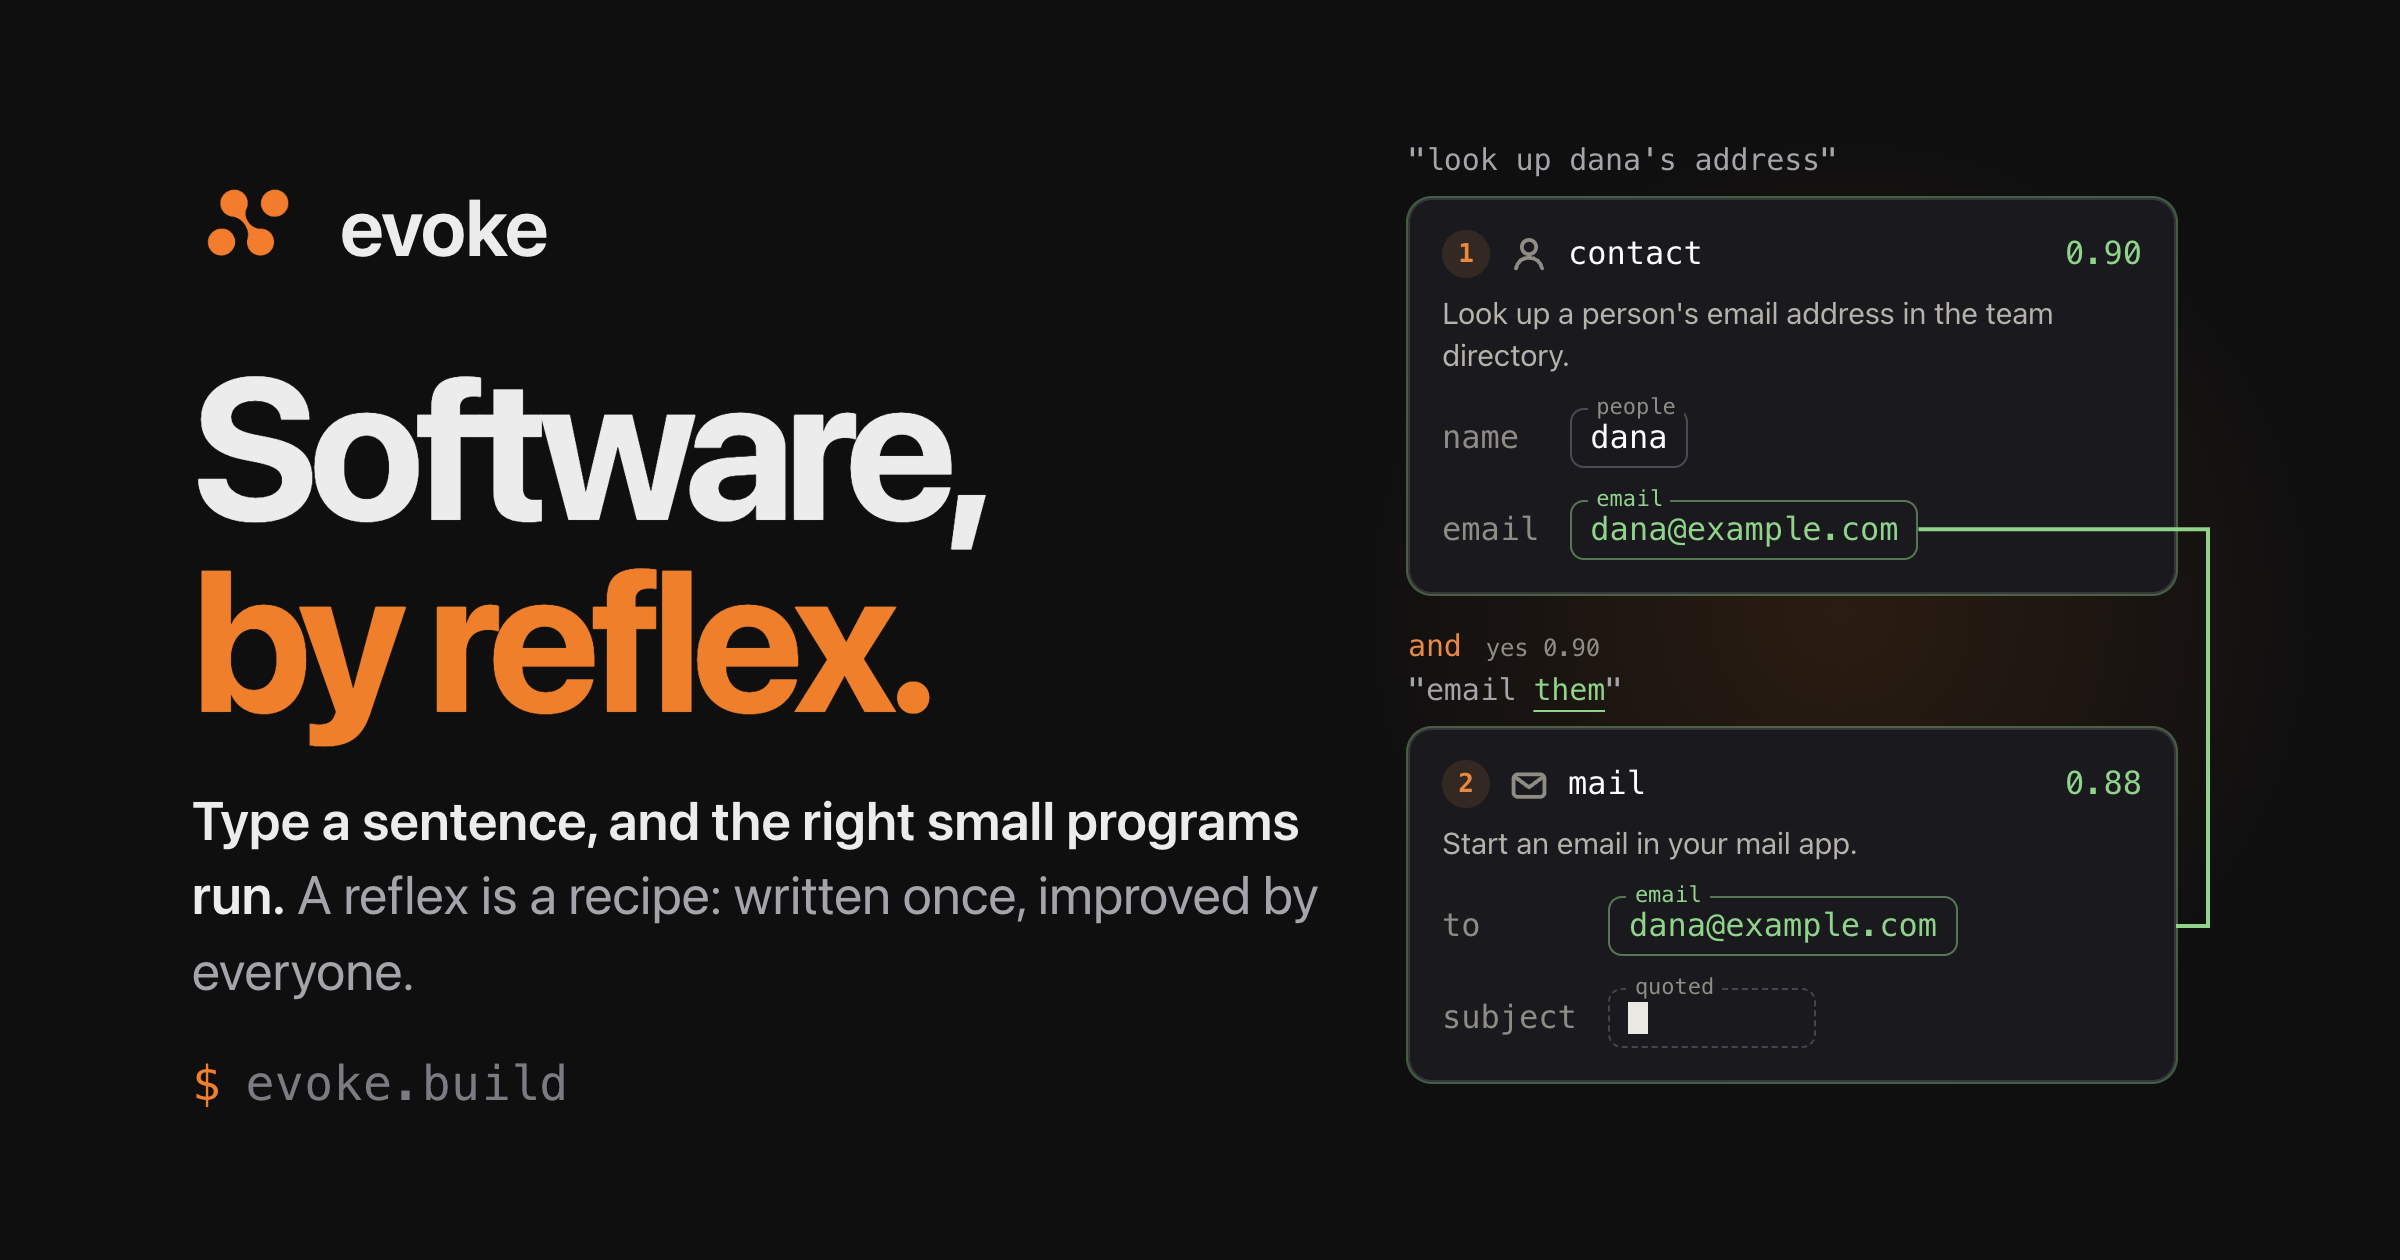
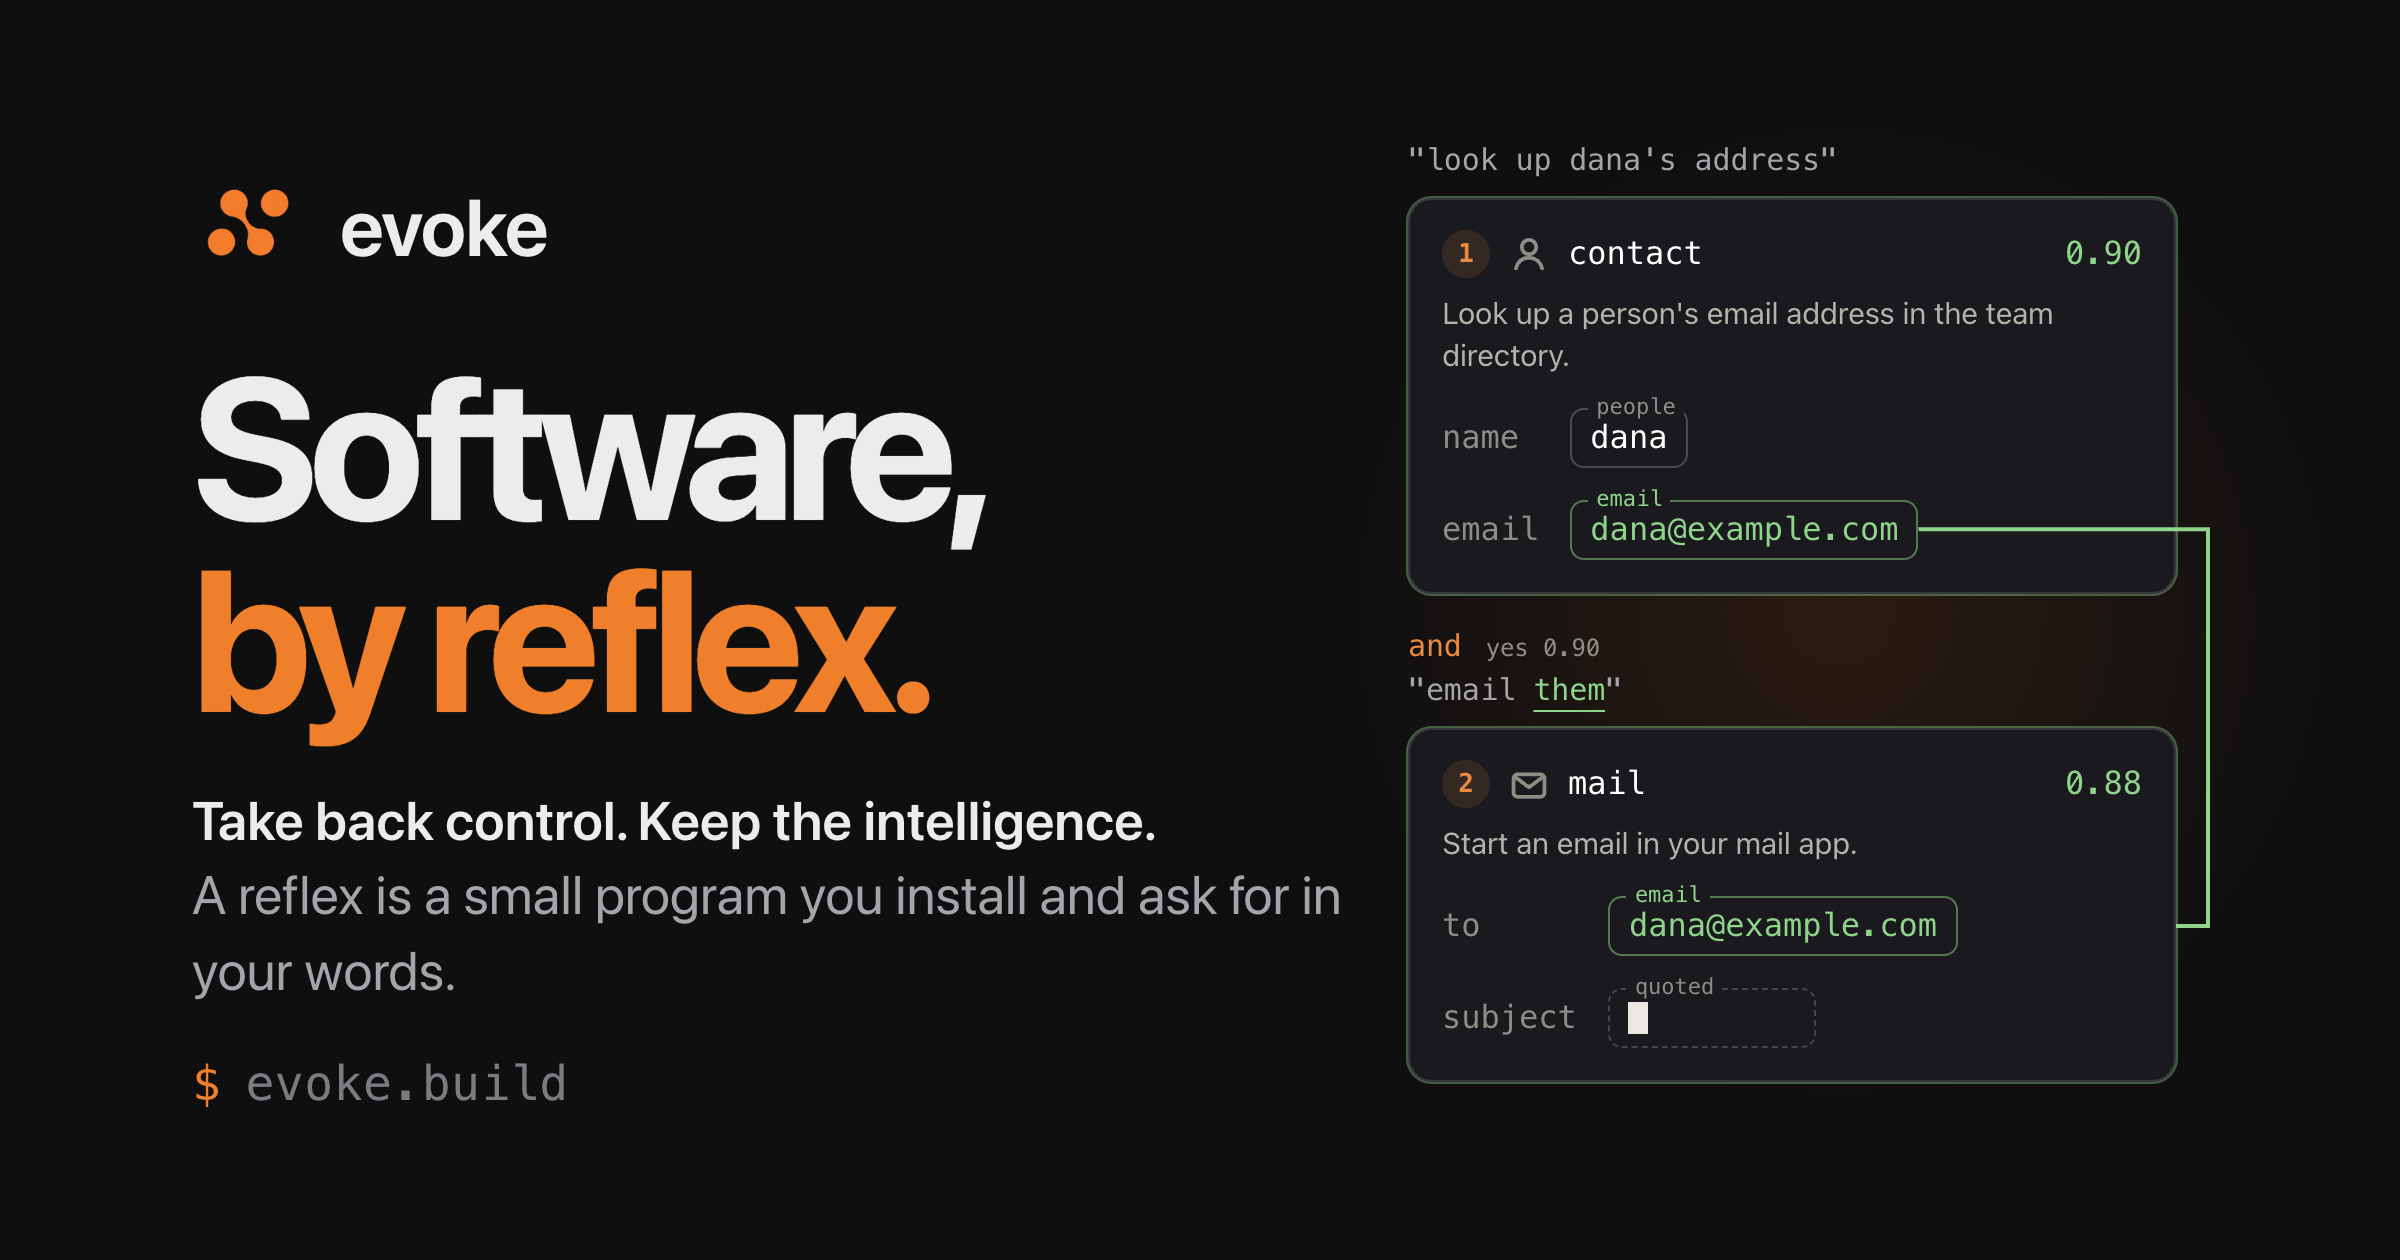
site: the film has a card of its own, and every card, colour and structured block is checked

Changed region(s): [[0.0625, 0.619, 0.5625, 0.8048]]

diff --git a/site/film.html b/site/film.html
@@ -3,8 +3,11 @@
 <head>
   <meta charset="utf-8">
   <meta name="viewport" content="width=device-width, initial-scale=1">
-  <title>Where evoke is going, the film - Evoke</title>
+  <title>Where evoke is going, as a film - Evoke</title>
   <meta name="description" content="A film about where evoke is going: one reflex, a sentence that lights a plan, machines that each keep their own gate, and a galaxy with no center.">
+  <meta name="theme-color" content="#030305">
+  <meta property="og:image" content="https://evoke.build/og-film.jpg">
+  <meta property="og:image:alt" content="Software, by reflex. A film about where evoke is going, its title over a galaxy of reflexes.">
   <!-- head -->
   <script type="application/ld+json">
   {
@@ -13,9 +16,11 @@
     "@id": "https://evoke.build/film.html",
     "url": "https://evoke.build/film.html",
     "headline": "Where evoke is going, as a film.",
-    "name": "Where evoke is going, the film",
+    "name": "Where evoke is going, as a film",
     "description": "A film about where evoke is going: one reflex, a sentence that lights a plan, machines that each keep their own gate, and a galaxy with no center.",
     "inLanguage": "en",
+    "datePublished": "2026-09-26",
+    "dateModified": "2026-09-26",
     "isPartOf": {
       "@id": "https://evoke.build/#website"
     },
@@ -28,7 +33,7 @@
     "publisher": {
       "@id": "https://evoke.build/#organization"
     },
-    "image": "https://evoke.build/og.png"
+    "image": "https://evoke.build/og-film.jpg"
   }
   </script>
   <style>

diff --git a/site/og.html b/site/og.html
@@ -12,7 +12,7 @@
     .brand img { width: 56px; height: 56px; }
     h1 { font-size: 100px; font-weight: 700; letter-spacing: -0.045em; line-height: 0.96; margin: 34px 0 0; }
     h1 em { font-style: normal; color: #ef7f2b; }
-    p { font-size: 27px; line-height: 1.38; color: #a4a4aa; margin: 26px 0 0; max-width: 600px; letter-spacing: -0.005em; }
+    p { font-size: 27px; line-height: 1.38; color: #a4a4aa; margin: 26px 0 0; max-width: 590px; letter-spacing: -0.005em; }
     p strong { color: #ececec; font-weight: 600; }
     .url { position: absolute; left: 96px; bottom: 76px; font: 500 24px/1 ui-monospace, "SF Mono", Menlo, monospace; color: #7b7b82; letter-spacing: .01em; }
     .url b { color: #ef7f2b; font-weight: 500; margin-right: 12px; }
@@ -47,8 +47,8 @@
   <div class="card">
     <div class="brand"><img src="../assets/logo.png" alt="">evoke</div>
     <h1>Software,<br><em>by reflex.</em></h1>
-    <p><strong>Type a sentence, and the right small programs run.</strong> A reflex is a recipe: written once, improved
-      by everyone.</p>
+    <p><strong>Take back control. Keep the intelligence.</strong><br>A reflex is a small program you install and ask
+      for in your words.</p>
     <div class="url"><b>$</b>evoke.build</div>
     <div class="room" aria-hidden="true">
       <p class="part">"look up dana's address"</p>

diff --git a/site/index.html b/site/index.html
@@ -5,6 +5,7 @@
   <meta name="viewport" content="width=device-width, initial-scale=1">
   <title>Evoke - Natural-language commands for programs you install</title>
   <meta name="description" content="A reflex is a small program you install and ask for in your words. Type a natural-language command, and evoke runs the one that matches, or asks first.">
+  <meta name="theme-color" content="#060608">
   <!-- head -->
   <script type="application/ld+json">
   {
@@ -47,6 +48,7 @@
         "@id": "https://evoke.build/#organization",
         "name": "evoke-build",
         "url": "https://evoke.build/",
+        "slogan": "Software, by reflex.",
         "logo": { "@type": "ImageObject", "url": "https://evoke.build/logo-512.png", "width": 512, "height": 512 },
         "sameAs": ["https://github.com/evoke-build"]
       },
